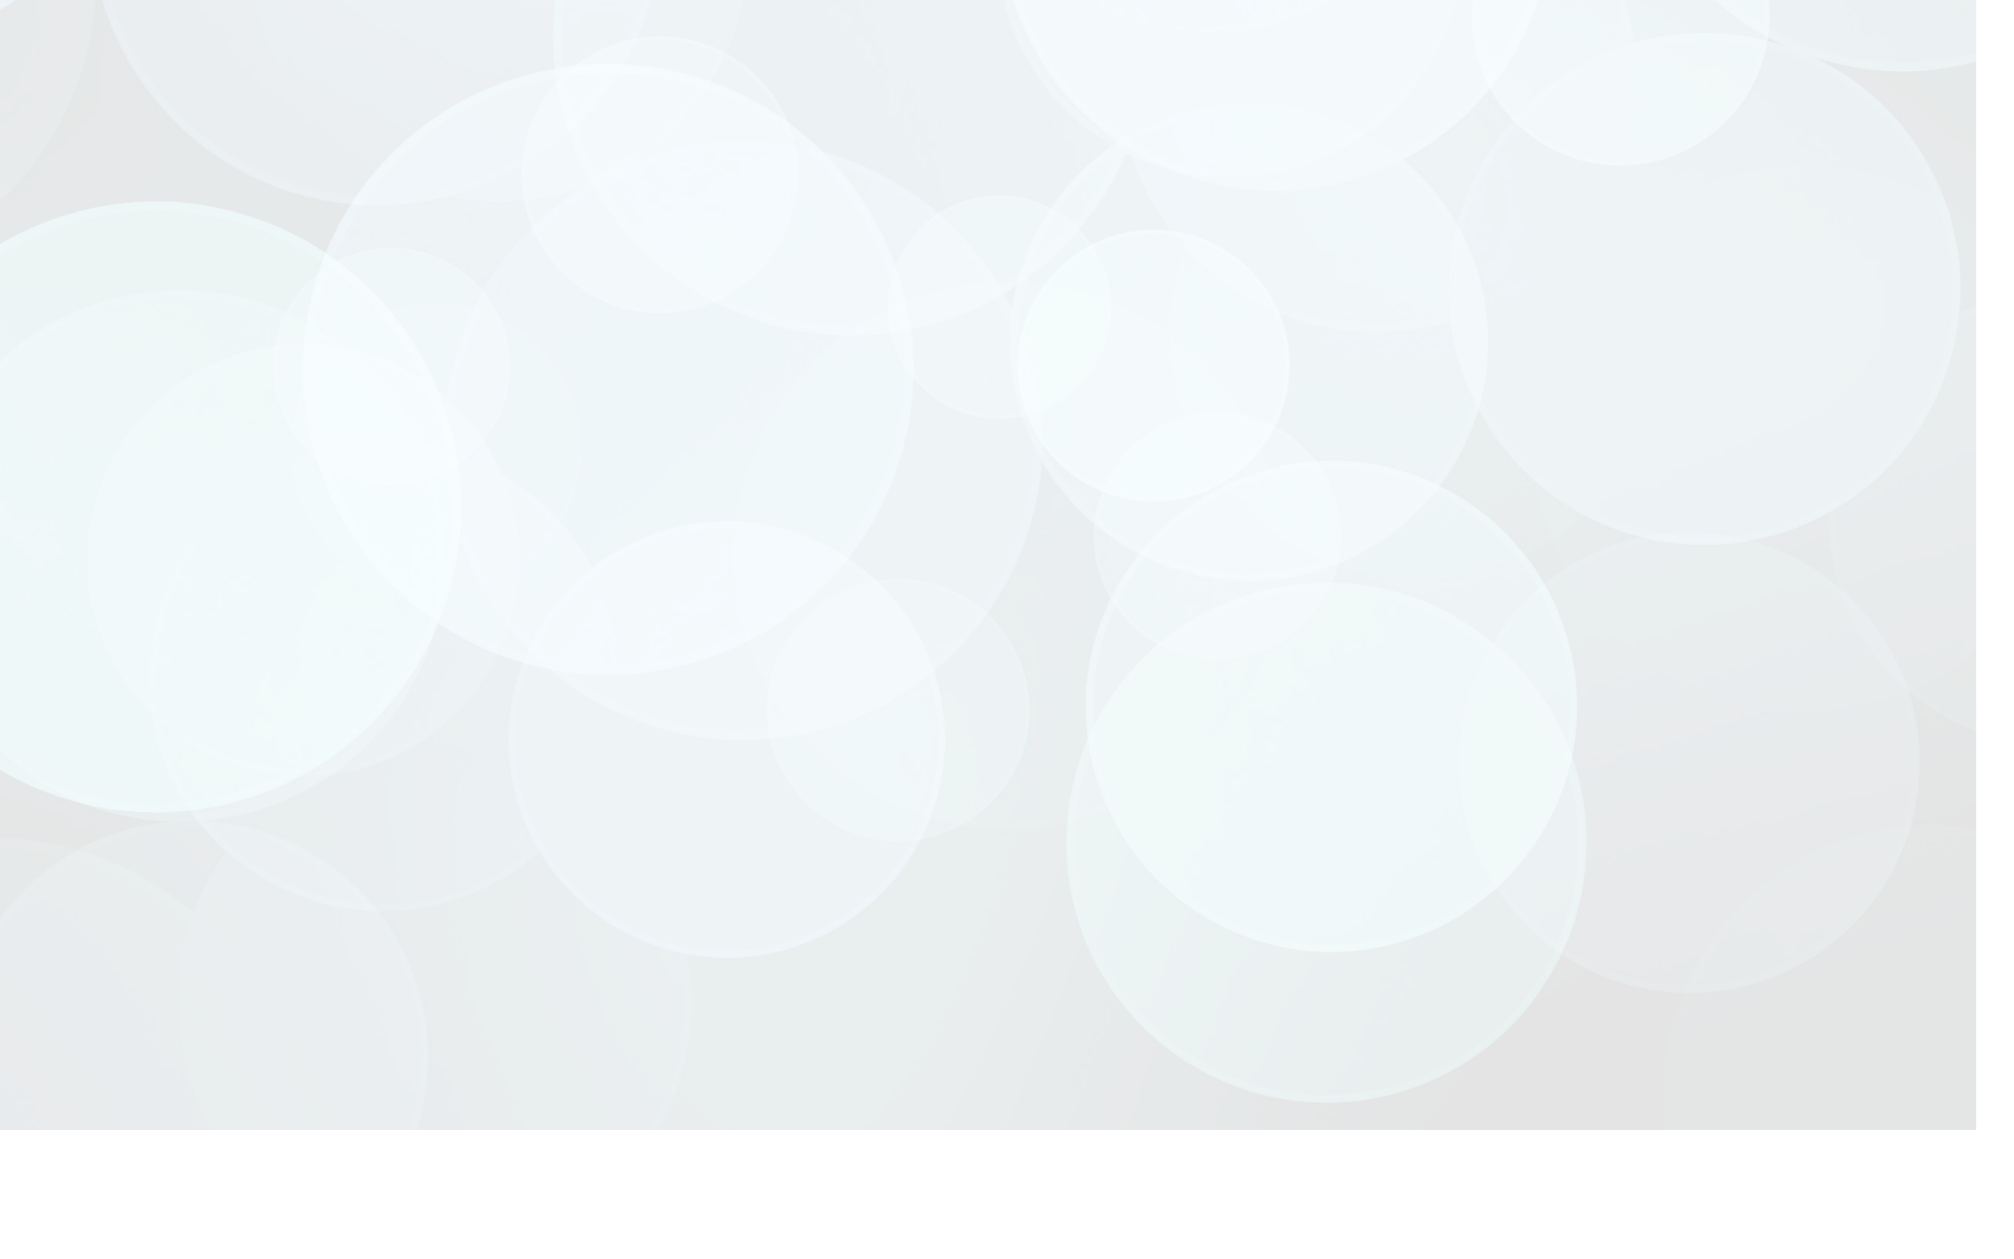
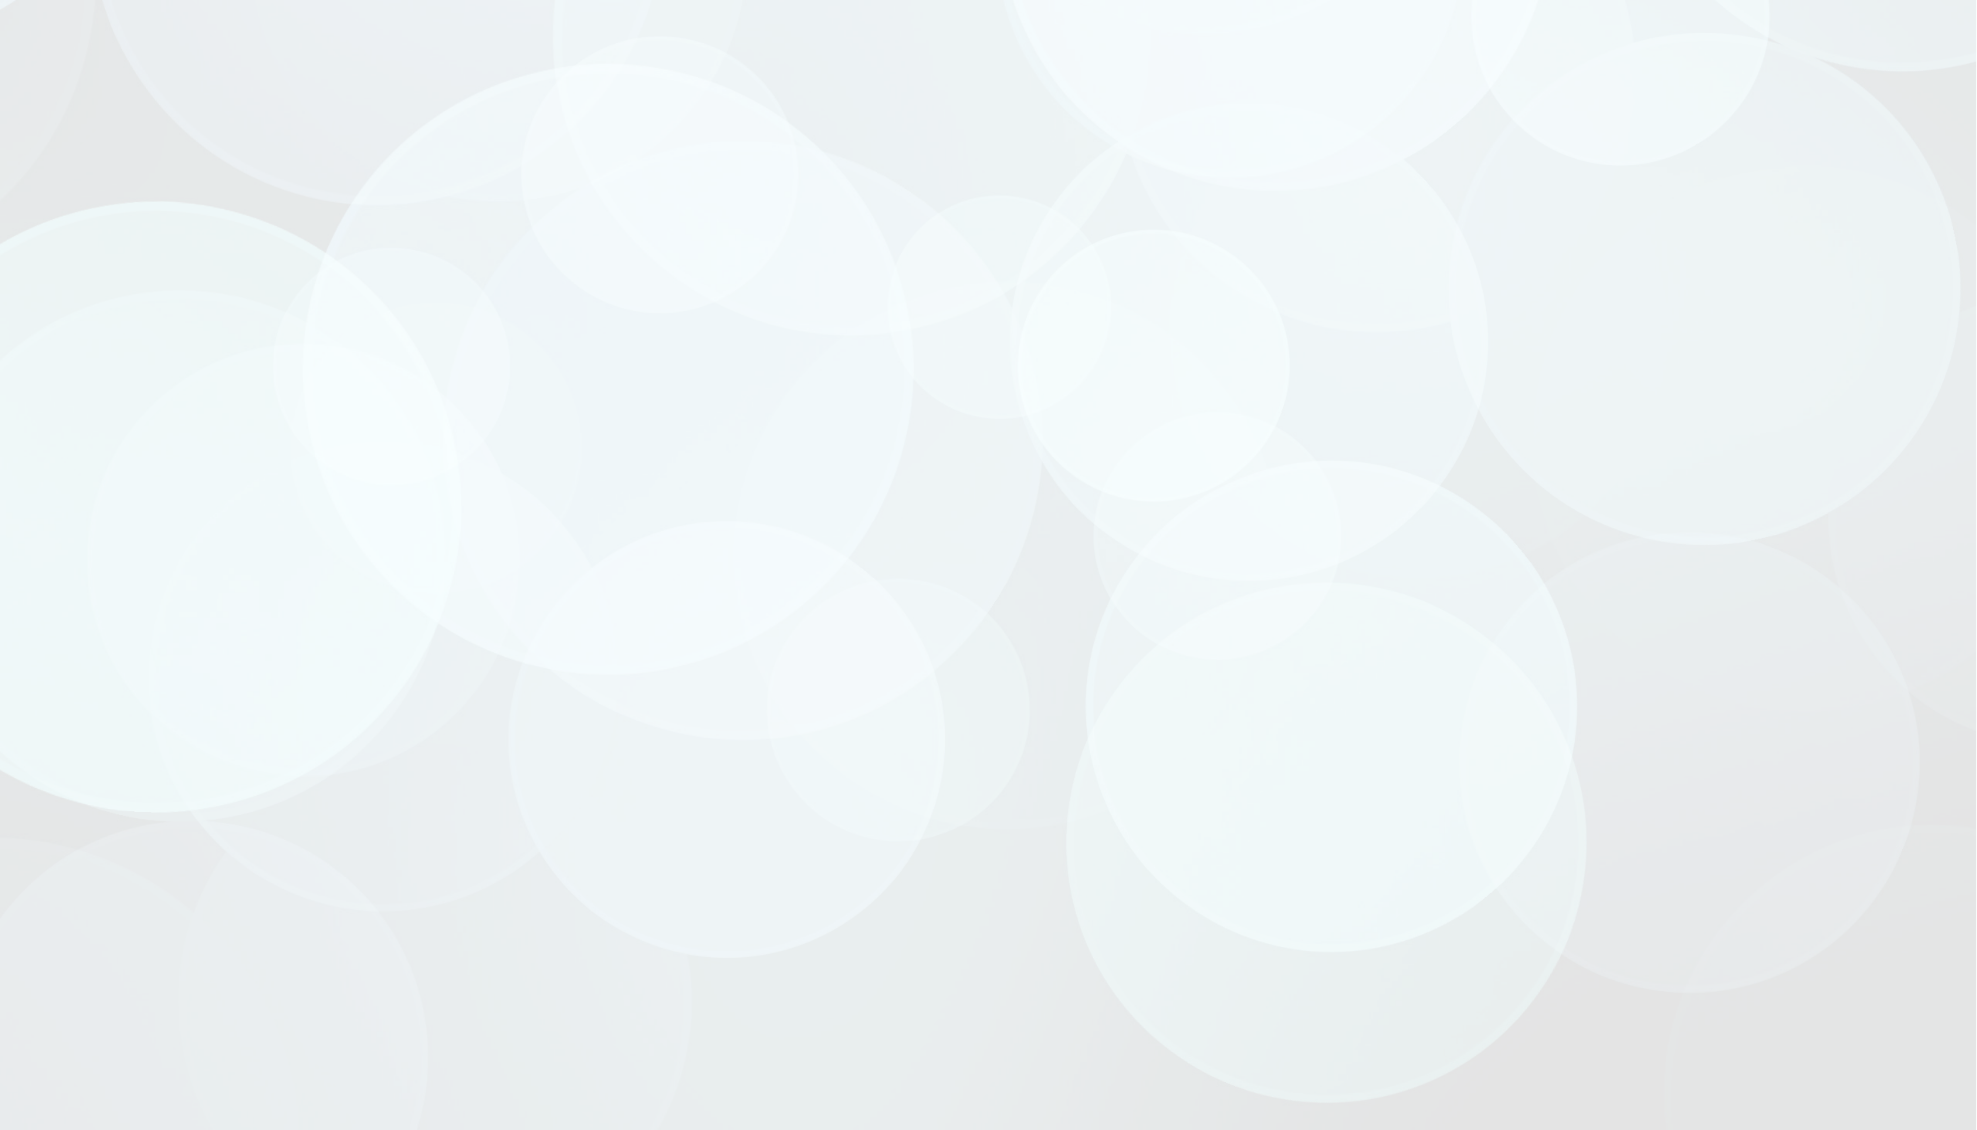
css formulär nästan klar

Changed region(s): [[0.5554, 0.5885, 1.0, 1.0], [0.9565, 0.031, 1.0, 0.1239]]

diff --git a/index.html b/index.html
@@ -18,7 +18,8 @@
 
     <!-- ----------section 1 -->
     <div class="main">
-        <div class="header d-flex ">
+        
+        <section class="header d-flex">
             <div class="infoSection mx-auto mt-4 ">
                 <h5 class="mt-4 thin animate__animated animate__fadeInUp">daniel karlsson</h5>
                     <div class="headWrapper d-flex justify-content-between">
@@ -44,11 +45,11 @@
                     <hr class="lowerHr">
             </div>
             
-        </div>
+        </section>
 
 
         <!-- ---------------section 2 -->
-        <div class="projects mx-auto">
+        <section class="projects mx-auto">
             <div class="d-flex justify-content-between  text-start">
                 <h1>HTML</h1>
                 <h1>CSS</h1>
@@ -83,41 +84,53 @@
 
             </div>
                     
-        </div>
+        </section>
 
         <!-- -----------section 3 -->
 
-        <section class="footer" id="footer">
-            <div class="d-flex justify-content-between contactForm">
-                <div class="fHeader">
-                    <h1 class="border">Contact</h1>
-                    <p class="mt-5 border">I would love to hear about your project
-                        And how I could help. Please contact me
-                        here and I get back to you as soon as 
-                        possible.</p>
-                </div>
-                <div class="fHeader">
-                    <div class="d-flex flex-column gap-3">
-                        <div class="inputName border">
-                            <label for="">Name:</label>
-                            <input class=" " type="text">
-                        </div>
-                        <div class="inputEmail">
-                            <label for="">Email:</label>
-                            <input class=" " type="email">
-
-                        </div>
-
-                        <textarea name="" id="" placeholder="Message:"></textarea>
+        <section class="footer d-flex flex-column mx-auto" id="footer">
+            <div class="contactForm d-flex justify-content-between flex-column ">
+                <div class="fContent d-flex flex-row justify-content-between ">
+                    <div class="fHeader animate__animated animate__fadeInUp">
+                        <h1 class=" ">Contact</h1>
+                        <p class="mt-5 ">I would love to hear about your project
+                            And how I could help. Please contact me
+                            here and I get back to you as soon as 
+                            possible.</p>
                     </div>
-                    <button class="fBtn text-end">Send Message</button>
+                    <div class="fHeader ">
+                        <form class="d-flex flex-column gap-3">
+                            <div class="formInput">
+                                <input class="input" type="text">
+                                <label class="thin" for="">Name:</label>
+                            </div>
+                            <div class="formInput">
+                                <input class="input" type="email">
+                                <label class="thin" for="">Email:</label>
+                            </div>
+                            <div class="formInput">
+                                <!-- <label class="thin" for="textArea">Message:</label> -->
+                                <textarea class="textInput" name="" placeholder="Message:" id="textArea"></textarea>
+                            </div>
+                        </form>
+                        <button class="fBtn">Send Message</button>
+                    </div> 
+                
+                
                 </div>
-                
-                <hr class="fHr">                
-                
-            </div>
+                <div class="text-center">
+                    <hr class="fHr">     
+                    <div class="d-flex justify-content-between">
+                        <h5 class="thin animate__animated animate__fadeInUp text-start">daniel karlsson</h5>
+                        <div class="footer-links d-flex justify-content-around">
+                            <a class="link" href="https://github.com/danielkarlsson2" target="_blank"><img src="./img/Icon awesome-github.png" alt=""></a>
+                            <a class="link" href="https://www.linkedin.com/in/daniel-karlsson-74b1a266/" target="_blank"><img src="./img/Icon awesome-linkedin.png" alt=""></a>
+                            <a class="link" href="https://www.instagram.com/danielkarl_sson/" target="_blank"><img src="./img/Icon awesome-instagram.png" alt=""></a>
+                        </div>
+                    </div>                       
+                </div>
+            </div>          
             
-            <h5 class="thin animate__animated animate__fadeInUp">daniel karlsson</h5>
         </section>
         
     </div>

diff --git a/css/default.css b/css/default.css
@@ -9,7 +9,8 @@
     margin: 0;
     padding: 0;
 
-    color: white;
+    /* color: white; */
+    color: black;
     /* background-color: var(--main-bg-color); */
 
     font-family: "area-normal", sans-serif;
@@ -37,11 +38,10 @@ h1 {
 .main {
     height: 100%;
     background-color: var(--main-bg-color);
-
     position: relative;
 }
 
-/*--------------- header */
+/*---------------Section 1 header */
 .headWrapper {
     z-index: 10;
 }
@@ -50,7 +50,10 @@ h1 {
     width: 100%;
     border: none;
     position: relative;
-    background-image: url("../img/bg_bokeh.png");
+    background-image: url("../img/bg_portfolio.png");
+    background-repeat: no-repeat;
+    background-size: cover;
+    background-position: center center;
 }
 .infoSection {
     position: relative;
@@ -73,6 +76,7 @@ h1 {
 }
 .contact:hover {
     color: #7c7575;
+    transition: .2s;
 }
 .contactHr {
     width: 125px;
@@ -80,10 +84,11 @@ h1 {
 }
 .link:hover {
     transform: scale(1.05);
+    transition: .2s;
     color: #7c7575;
 }
 .lowerHr {
-    margin-top: 220px;
+    /* margin-top: 150px; */
     border: 2px solid;
     border-radius: 3px;
     opacity: 100%;
@@ -117,11 +122,14 @@ span {
 
 /* --------Footer */
 .footer {
-    background-image: url("../img/bg_bokeh.png");
+    background-image: url("../img/bg_portfolio.png");
+    background-size: cover;
     height: 100vh;
+    position: relative;
 }
 .contactForm {
     margin-top: 50px;
+    height: 60%;
     width: 900px;
     margin: auto;
     position: relative;
@@ -129,38 +137,73 @@ span {
 .fHeader {
     margin-top: 80px;
     width: 400px;
-    position: relative;
 }
 .fHeader p {
     /* font-size: 28px; */
     font-weight: 100;
     line-height: 1.8;
 }
-.inputName {
+.formInput {
     position: relative;
-}
-/* input {
-    background: rgba(255,255,255,0);
-    border: none;
-    border-bottom: #DDD1D1;
+    margin-bottom: 2rem;
     color: #DDD1D1;
-} */
+}
+.input {
+    width: 100%;
+    padding: 5px 0;
+    border: none;
+    border-bottom: 2px solid #DDD1D1;
+    outline: none;
+    background: transparent;
+    color: #DDD1D1;
+}
+.formInput label {
+    position: absolute;
+    top: 0;
+    left: 0;
+    pointer-events: none;
+    transition: .5s;    
+}
+.formInput input:focus + label {
+    top: -20px;
+    left: 0;
+    color: #857f7f;
+    font-size: 14px;
+}
+textarea::placeholder {
+    color: #DDD1D1;
+}
+.textInput {
+    width: 100%;
+    background: transparent;
+    border: none;
+    resize: none;
+    border-bottom: 2px solid #DDD1D1;
+    height: 70px;
+}
 
 .fBtn {
     background: rgba(255,255,255,0);
     border-bottom: 2px solid #DDD1D1;
+    line-height: 2.5;
     border-top: none;
     border-left: none;
+    font-size: 18px;
+    font-weight: 600;
 }
-
+.fBtn:hover {
+    color: #857f7f;
+    border-bottom: 2px solid #857f7f;
+    transition: .2s;
+}
 .fHr {
-    /* margin-top: 100px; */
-    
     border-radius: 3px;
     opacity: 100%;
-    position: absolute;
-    bottom: 90px;
-    width: 900px;
+    width: 900px; 
+}
+.footer-links {
+    width: 200px;
+    align-items: center;
 }
 
 /* ---------helpers */
